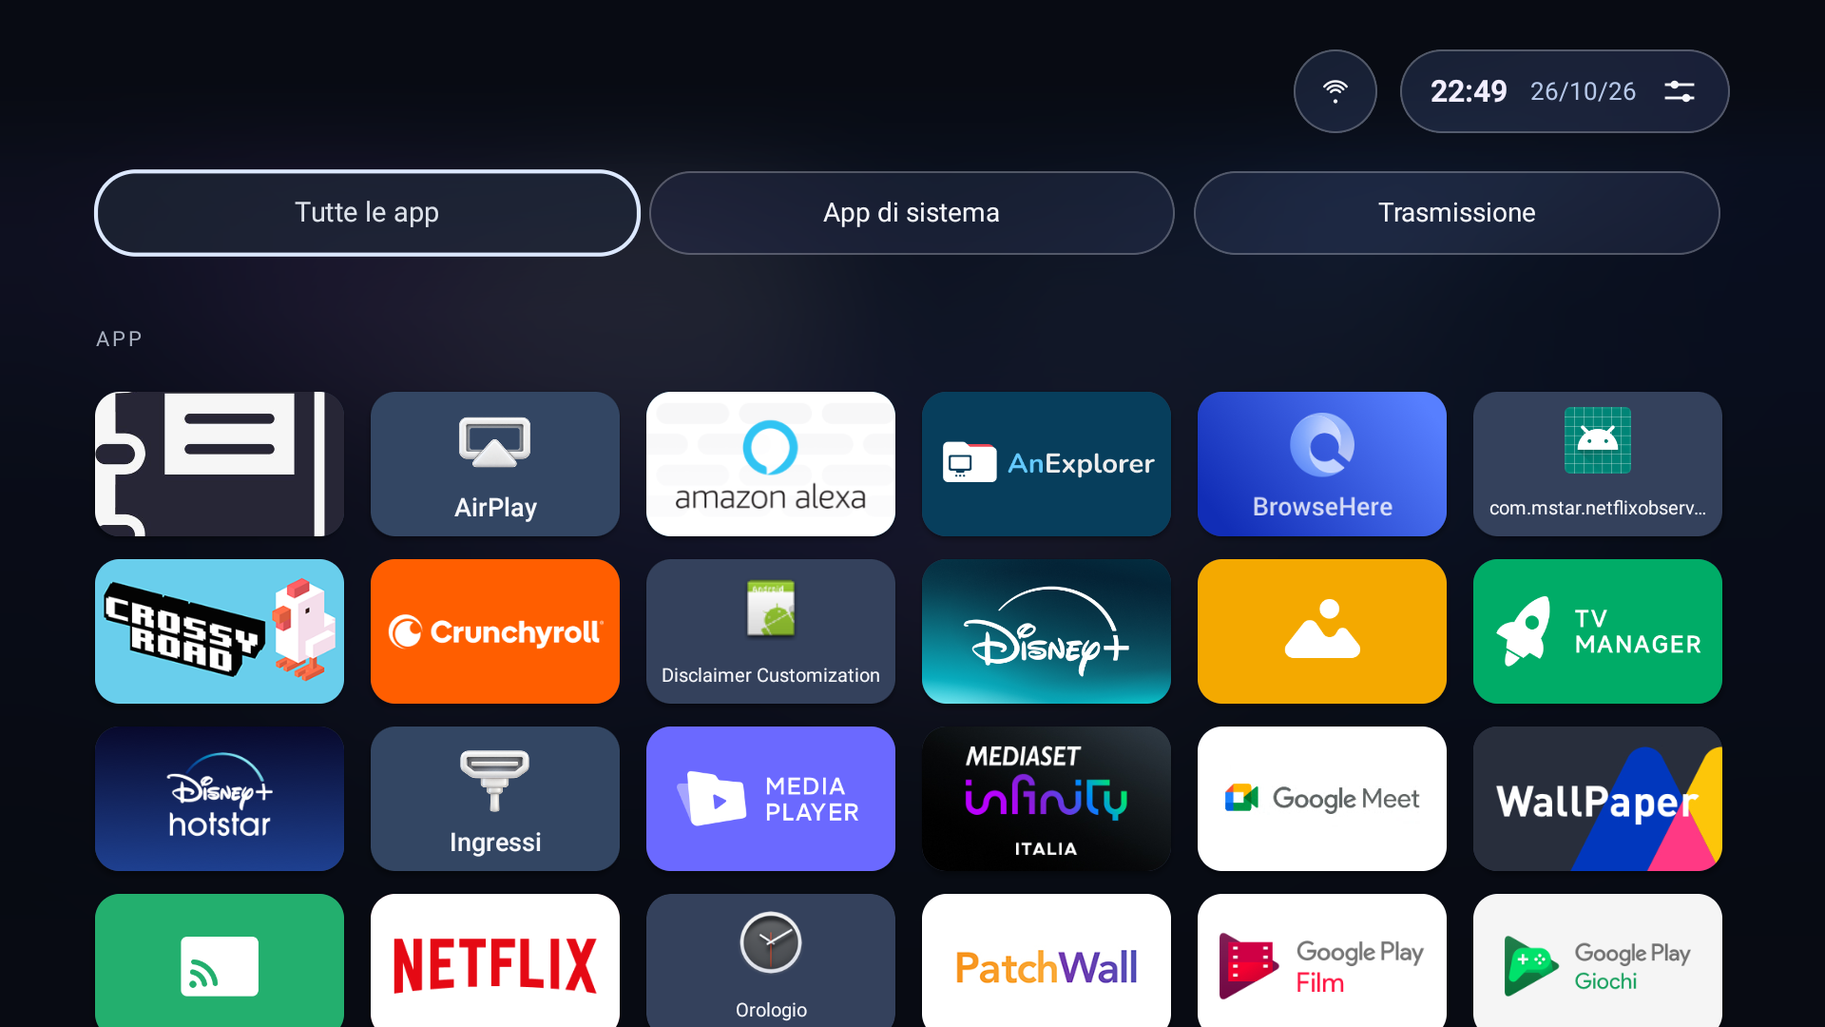
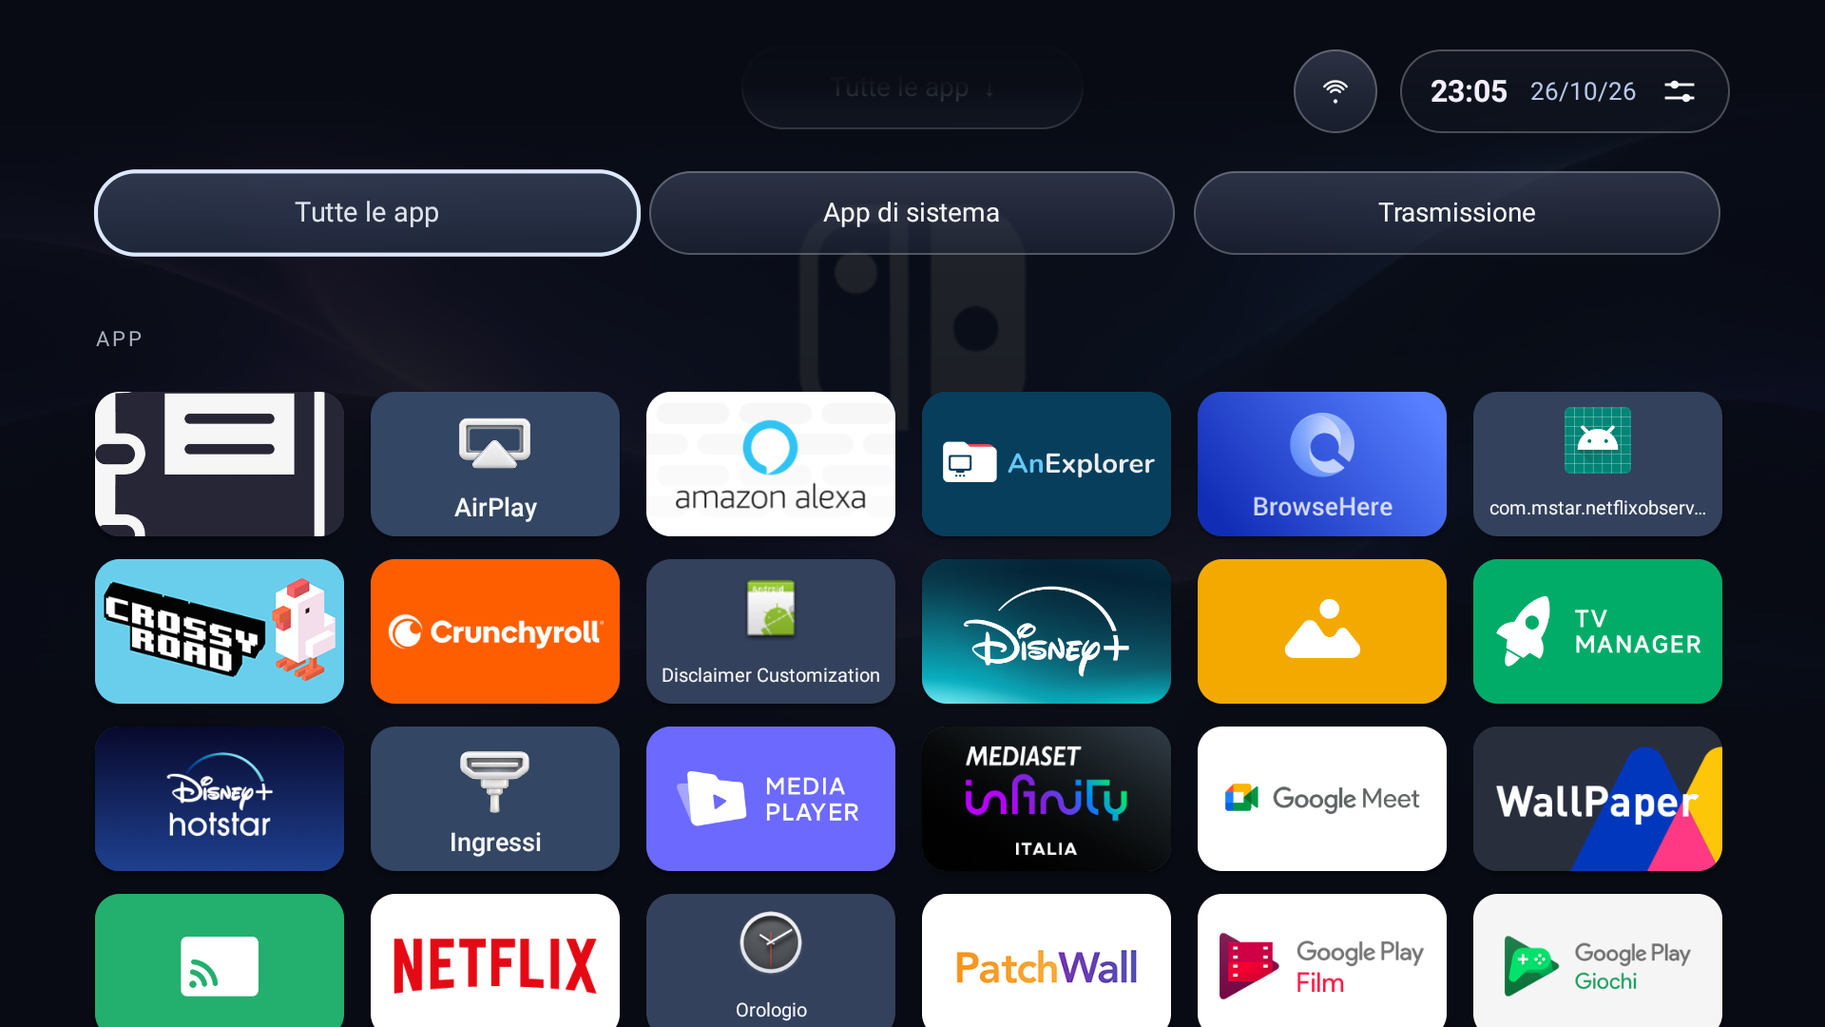
Use fresh popup blur, prevent text clipping and repair CI setup

diff --git a/app/src/main/java/it/xarber/tvhome/MainActivity.java b/app/src/main/java/it/xarber/tvhome/MainActivity.java
@@ -31,7 +31,7 @@ public final class MainActivity extends Activity {
     long suppressConfirmUntil;View panelOrigin,pendingPanelFocus;boolean homeFocusPending=true;Dialog panel; String dockFocus="inputs"; String page="home", lastFocus="inputs", filter="all"; boolean resumed,loaded,receiverRegistered;
     boolean libraryVisible; View libraryShade,libraryTopMask; Drawable selectedBackdrop; io.github.jqssun.airplay.service.AirPlayService nativeReceiver; boolean receiverBound;
     View audioBubble; PopupWindow audioPopup; AudioWaveform audioWave; TextView audioTitle,audioArtist,audioPlayButton; ImageView audioCover; SeekBar audioVolume; boolean audioExpanded;
-    View homeNotice; Runnable hideNotice; HomeRemoteServer remoteServer;
+    Bitmap popupBackdrop;View homeNotice; Runnable hideNotice; HomeRemoteServer remoteServer;
     final ServiceConnection receiverConnection=new ServiceConnection(){public void onServiceConnected(ComponentName n,IBinder b){nativeReceiver=((io.github.jqssun.airplay.service.AirPlayService.LocalBinder)b).getService();}public void onServiceDisconnected(ComponentName n){nativeReceiver=null;}};
     boolean preview; int tileWidth; View libraryAnchor,inputsAnchor,appsAnchor,inputsSection,appTabs,homeAppGrid; LinearLayout dockBand;  final HashMap<String,Bitmap> logoCache=new HashMap<>();final android.util.LruCache<String,Bitmap> sharpHeroes=new android.util.LruCache<>(3);final HashSet<String> sharpening=new HashSet<>(); Drawable hdmiArt,tvArt,appsArt,controlsArt;
     final Runnable tick=new Runnable(){public void run(){if(resumed){updateStatus();handler.postDelayed(this,15000);}}};
@@ -84,7 +84,7 @@ public final class MainActivity extends Activity {
         heroName=text("",36,WHITE);heroName.setGravity(Gravity.CENTER);heroName.setTypeface(Typeface.create("sans-serif-light",Typeface.NORMAL));FrameLayout.LayoutParams fallback=new FrameLayout.LayoutParams(-1,dp(130),Gravity.TOP);fallback.topMargin=dp(105);root.addView(heroName,fallback);
         scroll=new SnapScrollView();scroll.setFillViewport(true);scroll.setClipToPadding(false);scroll.setVerticalScrollBarEnabled(false);
         content=new LinearLayout(this);content.setOrientation(LinearLayout.VERTICAL);content.setPadding(dp(50),dp(28),dp(50),dp(30));content.setClipChildren(false);content.setClipToPadding(false);
-        scroll.setOnScrollChangeListener((v,x,y,oldx,oldy)->{scroll.settleGap();if(page.equals("home") && dockBand!=null)dockBand.setVisibility(scroll.libraryStop()>0 && y>=scroll.libraryStop()?View.INVISIBLE:View.VISIBLE);boolean show=page.equals("library") || y>dp(90);if(show!=libraryVisible){libraryVisible=show;updateBackdrop();}});
+        scroll.setOnScrollChangeListener((v,x,y,oldx,oldy)->{scroll.settleGap();if(page.equals("home") && dockBand!=null)dockBand.setVisibility(scroll.libraryStop()>0 && y>=scroll.libraryStop()?View.INVISIBLE:View.VISIBLE);if(page.equals("home")&&inputsSection!=null)inputsSection.setVisibility(y>=scroll.appsStop()?View.INVISIBLE:View.VISIBLE);boolean show=page.equals("library") || y>dp(90);if(show!=libraryVisible){libraryVisible=show;updateBackdrop();}});
         scroll.addView(content,new ScrollView.LayoutParams(-1,-2));root.addView(scroll);libraryTopMask=new View(this);libraryTopMask.setBackground(new GradientDrawable(GradientDrawable.Orientation.TOP_BOTTOM,new int[]{0xff080b13,0xf0080b13,0x00080b13}));libraryTopMask.setVisibility(View.GONE);root.addView(libraryTopMask,new FrameLayout.LayoutParams(-1,dp(88),Gravity.TOP));setContentView(root);
     }
     @Override public void onResume(){super.onResume();ensureReceiver();resumed=true;startHomeRemote();handler.removeCallbacks(tick);handler.post(tick);handler.removeCallbacks(audioTick);handler.post(audioTick);if(loaded)refreshSources();}
@@ -343,7 +343,7 @@ public final class MainActivity extends Activity {
         Intent i=pm.getLeanbackLaunchIntentForPackage("com.mediatek.wwtv.tvcenter");if(i==null)i=pm.getLaunchIntentForPackage("com.mediatek.wwtv.tvcenter");if(i!=null)start(i);else showNotice(tr(preview?"Preview: this emulator has no broadcast tuner":"Live TV is unavailable"),4500);
     }
     void showInputs(){LinearLayout rows=dialog("Inputs");for(int n=1;n<=3;n++){Entry e=sources.get(n);if(e==null){e=action("hdmi"+n,"HDMI "+n,"hdmi",hdmiArt);e.port=n;decorateInput(e);}final Entry target=e;addControl(rows,e.label,e.inputId.isEmpty()?"Not registered on this device":e.state==0?"Connected":"No signal",()->{closePanel();openInput(target);});}addControl(rows,"Live TV","Broadcast channels",()->{closePanel();openLive();});panel.show();focusFirst(rows);}
-    LinearLayout dialog(String title){if(panel!=null && panel.isShowing())panel.dismiss();else panelOrigin=getCurrentFocus();panel=new Dialog(this);panel.setOnKeyListener((dialog,key,event)->{if((key==KeyEvent.KEYCODE_DPAD_CENTER || key==KeyEvent.KEYCODE_ENTER) && event.getAction()==KeyEvent.ACTION_UP && SystemClock.uptimeMillis()<suppressConfirmUntil){suppressConfirmUntil=0;return true;}if(event.getAction()==KeyEvent.ACTION_DOWN && event.getRepeatCount()==0)suppressConfirmUntil=0;return key==KeyEvent.KEYCODE_BACK && handleBack(event);});LinearLayout rows=new LinearLayout(this);rows.setOrientation(LinearLayout.VERTICAL);rows.setClipChildren(false);rows.setClipToPadding(false);rows.setPadding(dp(26),dp(26),dp(26),dp(24));rows.setBackground(new FrostedDock(rows,true));rows.addView(text(title,27,WHITE),lp(-1,50));ScrollView dialogScroll=new ScrollView(this);dialogScroll.setClipChildren(false);dialogScroll.setClipToPadding(false);dialogScroll.addView(rows);panel.setContentView(dialogScroll);Window w=panel.getWindow();if(w!=null){w.setBackgroundDrawableResource(android.R.color.transparent);w.addFlags(WindowManager.LayoutParams.FLAG_DIM_BEHIND);WindowManager.LayoutParams p=w.getAttributes();p.width=dp(325);p.height=-2;p.gravity=Gravity.RIGHT|Gravity.CENTER_VERTICAL;p.x=dp(30);p.dimAmount=.38f;w.setAttributes(p);w.setWindowAnimations(getResources().getIdentifier("HomePanelMotion","style",getPackageName()));}return rows;}
+    LinearLayout dialog(String title){if(panel!=null && panel.isShowing())panel.dismiss();else panelOrigin=getCurrentFocus();capturePopupBackdrop();panel=new Dialog(this);panel.setOnDismissListener(dialog->{popupBackdrop=null;});panel.setOnKeyListener((dialog,key,event)->{if((key==KeyEvent.KEYCODE_DPAD_CENTER || key==KeyEvent.KEYCODE_ENTER) && event.getAction()==KeyEvent.ACTION_UP && SystemClock.uptimeMillis()<suppressConfirmUntil){suppressConfirmUntil=0;return true;}if(event.getAction()==KeyEvent.ACTION_DOWN && event.getRepeatCount()==0)suppressConfirmUntil=0;return key==KeyEvent.KEYCODE_BACK && handleBack(event);});LinearLayout rows=new LinearLayout(this);rows.setOrientation(LinearLayout.VERTICAL);rows.setClipChildren(false);rows.setClipToPadding(false);rows.setPadding(dp(26),dp(26),dp(26),dp(24));rows.setBackground(new FrostedDock(rows,true));TextView heading=text(title,27,WHITE);heading.setMinHeight(dp(50));heading.setPadding(0,0,0,dp(12));rows.addView(heading,lp(-1,-2));ScrollView dialogScroll=new ScrollView(this);dialogScroll.setClipChildren(false);dialogScroll.setClipToPadding(false);dialogScroll.addView(rows);panel.setContentView(dialogScroll);Window w=panel.getWindow();if(w!=null){w.setBackgroundDrawableResource(android.R.color.transparent);w.addFlags(WindowManager.LayoutParams.FLAG_DIM_BEHIND);WindowManager.LayoutParams p=w.getAttributes();p.width=dp(325);p.height=-2;p.gravity=Gravity.RIGHT|Gravity.CENTER_VERTICAL;p.x=dp(30);p.dimAmount=.38f;w.setAttributes(p);w.setWindowAnimations(getResources().getIdentifier("HomePanelMotion","style",getPackageName()));}return rows;}
     void addControl(LinearLayout rows,String label,String hint,Runnable action){TextView v=button(label+(hint.isEmpty()?"":"\n"+hint),action);v.setTextSize(14);v.setGravity(Gravity.CENTER_VERTICAL);v.setPadding(dp(16),dp(10),dp(10),dp(10));v.setLineSpacing(dp(2),1f);v.setMinHeight(dp(59));v.setBackground(new FrostedDock(v,true));View.OnFocusChangeListener feedback=v.getOnFocusChangeListener();v.setOnFocusChangeListener((view,focused)->{if(feedback!=null)feedback.onFocusChange(view,focused);v.setBackground(new FrostedDock(v,true));});LinearLayout.LayoutParams p=lp(-1,-2);p.topMargin=dp(8);rows.addView(v,p);}
     void focusFirst(LinearLayout rows){rows.post(()->{for(int i=1;i<rows.getChildCount();i++){View child=rows.getChildAt(i);if(child.isFocusable()){child.requestFocus();break;}}});}
     void closePanel(){pendingPanelFocus=panelOrigin;if(panel!=null)panel.dismiss();}
@@ -398,9 +398,9 @@ public final class MainActivity extends Activity {
     }
     boolean activeAudio(){return nativeReceiver!=null && nativeReceiver.getConnectionCount().getValue()>0 && nativeReceiver.getAudioOnly().getValue() && !nativeReceiver.getMirroringActive().getValue() && !nativeReceiver.getVideoPlaybackActive().getValue();}
     void updateAudioActivity(){if(audioBubble==null)return;boolean show=page.equals("home") && (panel==null||!panel.isShowing()) && activeAudio();audioBubble.setVisibility(show?View.VISIBLE:View.GONE);if(!show){if(audioPopup!=null&&audioPopup.isShowing())audioPopup.dismiss();audioExpanded=false;return;}io.github.jqssun.airplay.audio.TrackInfo info=nativeReceiver.getTrackInfo().getValue();String title=info.getTitle().isEmpty()?tr("AirPlay audio"):info.getTitle();audioBubble.setContentDescription(title+" — "+tr("AirPlay audio controls"));audioWave.setLevels(nativeReceiver.audioWaveform());if(audioTitle!=null){audioTitle.setText(title);audioArtist.setText(info.getArtist().isEmpty()?info.getAlbum():info.getArtist());if(audioCover!=null){if(info.getCoverArt()!=null)audioCover.setImageBitmap(info.getCoverArt());else audioCover.setImageDrawable(asset("icon_airplay"));}if(audioPlayButton!=null)audioPlayButton.setText(nativeReceiver.getPlaying().getValue()?"Ⅱ":"▶");}if(audioVolume!=null&&!audioVolume.isPressed())audioVolume.setProgress(Math.round(nativeReceiver.clientVolume()*100));}
-    void showAudioControls(){if(!activeAudio()||audioBubble==null)return;if(audioPopup!=null&&audioPopup.isShowing()){audioPopup.dismiss();audioExpanded=false;return;}LinearLayout card=new LinearLayout(this);card.setOrientation(LinearLayout.VERTICAL);card.setPadding(dp(18),dp(14),dp(18),dp(12));card.setBackground(new FrostedDock(card,true));card.setElevation(dp(15));card.setFocusable(false);
+    void showAudioControls(){if(!activeAudio()||audioBubble==null)return;if(audioPopup!=null&&audioPopup.isShowing()){audioPopup.dismiss();audioExpanded=false;return;}capturePopupBackdrop();LinearLayout card=new LinearLayout(this);card.setOrientation(LinearLayout.VERTICAL);card.setPadding(dp(18),dp(14),dp(18),dp(12));card.setBackground(new FrostedDock(card,true));card.setElevation(dp(15));card.setFocusable(false);
         LinearLayout line=new LinearLayout(this);line.setGravity(Gravity.CENTER_VERTICAL);audioCover=new ImageView(this);io.github.jqssun.airplay.audio.TrackInfo info=nativeReceiver.getTrackInfo().getValue();if(info.getCoverArt()!=null)audioCover.setImageBitmap(info.getCoverArt());else audioCover.setImageDrawable(asset("icon_airplay"));audioCover.setScaleType(ImageView.ScaleType.CENTER_CROP);audioCover.setBackground(surface(0xff30384a,12));line.addView(audioCover,lp(62,62));LinearLayout labels=new LinearLayout(this);labels.setOrientation(LinearLayout.VERTICAL);labels.setGravity(Gravity.CENTER_VERTICAL);labels.setPadding(dp(14),0,dp(8),0);audioTitle=text(info.getTitle().isEmpty()?"AirPlay audio":info.getTitle(),17,WHITE);audioTitle.setSingleLine(true);audioTitle.setEllipsize(android.text.TextUtils.TruncateAt.END);audioArtist=text(info.getArtist().isEmpty()?info.getAlbum():info.getArtist(),13,MUTED);audioArtist.setSingleLine(true);audioArtist.setEllipsize(android.text.TextUtils.TruncateAt.END);labels.addView(audioTitle,lp(-1,26));labels.addView(audioArtist,lp(-1,22));line.addView(labels,new LinearLayout.LayoutParams(0,dp(62),1));TextView prev=audioButton("‹",()->{if(nativeReceiver!=null&&nativeReceiver.getDacpController()!=null)nativeReceiver.getDacpController().prevItem();});audioPlayButton=audioButton(nativeReceiver.getPlaying().getValue()?"Ⅱ":"▶",()->{if(nativeReceiver!=null)nativeReceiver.toggleMediaPlayback();});TextView next=audioButton("›",()->{if(nativeReceiver!=null&&nativeReceiver.getDacpController()!=null)nativeReceiver.getDacpController().nextItem();});line.addView(prev,lp(42,46));line.addView(audioPlayButton,lp(48,46));line.addView(next,lp(42,46));card.addView(line,lp(-1,64));LinearLayout vol=new LinearLayout(this);vol.setGravity(Gravity.CENTER_VERTICAL);TextView glyph=text("−",18,WHITE);vol.addView(glyph,lp(24,30));audioVolume=new SeekBar(this);audioVolume.setMax(100);audioVolume.setProgress(Math.round(nativeReceiver.clientVolume()*100));audioVolume.setOnSeekBarChangeListener(new SeekBar.OnSeekBarChangeListener(){public void onStartTrackingTouch(SeekBar s){}public void onStopTrackingTouch(SeekBar s){}public void onProgressChanged(SeekBar s,int p,boolean from){if(from&&nativeReceiver!=null)nativeReceiver.setClientVolume(p/100f);}});vol.addView(audioVolume,new LinearLayout.LayoutParams(0,dp(34),1));TextView plus=text("+",18,WHITE);vol.addView(plus,lp(24,30));card.addView(vol,lp(-1,38));
-        audioPopup=new PopupWindow(card,dp(410),dp(128),true);audioPopup.setBackgroundDrawable(surface(0x001a2030,22));audioPopup.setOutsideTouchable(true);audioPopup.setOnDismissListener(()->{audioExpanded=false;if(audioBubble!=null&&audioBubble.isShown())audioBubble.requestFocus();});int[] loc=new int[2];audioBubble.getLocationOnScreen(loc);int right=root.getWidth()-loc[0]-audioBubble.getWidth();audioPopup.showAtLocation(root,Gravity.TOP|Gravity.RIGHT,right,loc[1]-dp(2));audioExpanded=true;card.setAlpha(.92f);card.setScaleX(.97f);card.setScaleY(.97f);if(motionEnabled())card.animate().alpha(1f).scaleX(1f).scaleY(1f).setDuration(180).setInterpolator(easeOut()).start();else{card.setAlpha(1f);card.setScaleX(1f);card.setScaleY(1f);}card.setFocusableInTouchMode(true);card.requestFocus();}
+        audioPopup=new PopupWindow(card,dp(410),dp(128),true);audioPopup.setBackgroundDrawable(surface(0x001a2030,22));audioPopup.setOutsideTouchable(true);audioPopup.setOnDismissListener(()->{popupBackdrop=null;audioExpanded=false;if(audioBubble!=null&&audioBubble.isShown())audioBubble.requestFocus();});int[] loc=new int[2];audioBubble.getLocationOnScreen(loc);int right=root.getWidth()-loc[0]-audioBubble.getWidth();audioPopup.showAtLocation(root,Gravity.TOP|Gravity.RIGHT,right,loc[1]-dp(2));audioExpanded=true;card.setAlpha(.92f);card.setScaleX(.97f);card.setScaleY(.97f);if(motionEnabled())card.animate().alpha(1f).scaleX(1f).scaleY(1f).setDuration(180).setInterpolator(easeOut()).start();else{card.setAlpha(1f);card.setScaleX(1f);card.setScaleY(1f);}card.setFocusableInTouchMode(true);card.requestFocus();}
     TextView audioButton(String label,Runnable action){TextView b=text(label,20,WHITE);b.setGravity(Gravity.CENTER);b.setFocusable(true);b.setClickable(true);b.setBackground(surface(0x332d3548,18));b.setOnClickListener(v->action.run());return b;}
     void startHomeRemote(){if(remoteServer!=null)return;try{remoteServer=new HomeRemoteServer(this,cmd->runOnUiThread(()->{if(cmd.equals("pair-request"))showRemoteCode();else remoteCommand(cmd);}));remoteServer.start();}catch(Exception e){remoteServer=null;showNotice(tr("Phone remote unavailable on this network"),5000);android.util.Log.w("MiTVRemote","HTTP remote could not start",e);}}
     void stopHomeRemote(){if(remoteServer!=null){remoteServer.stop();remoteServer=null;}if(hideNotice!=null){handler.removeCallbacks(hideNotice);hideNotice=null;}if(homeNotice!=null){root.removeView(homeNotice);homeNotice=null;}}
@@ -415,7 +415,12 @@ public final class MainActivity extends Activity {
     void showAirPlayInfo(){ensureReceiver();LinearLayout rows=dialog("AirPlay");boolean ready=nativeReceiver!=null && nativeReceiver.getServerState().getValue()==io.github.jqssun.airplay.service.AirPlayService.ServerState.RUNNING;TextView status=text(ready?"Ready to receive":"Starting receiver…",19,WHITE);rows.addView(status,lp(-1,45));TextView instructions=text(String.format(Locale.getDefault(),tr("Choose %s in Screen Mirroring or AirPlay.\n\nThe receiver starts with Home and remains available in the background."),DeviceName.read(this)),14,MUTED);instructions.setLineSpacing(dp(3),1);rows.addView(instructions,lp(-1,140));addControl(rows,"Done","",this::closePanel);panel.show();focusFirst(rows);}
     void updateBackdrop(){if(libraryVisible)stopBannerMotion();if(heroImage==null)return;heroImage.setAlpha(1f);heroImage.setImageDrawable(copy(selectedBackdrop));if(libraryShade!=null)libraryShade.setVisibility(libraryVisible?View.VISIBLE:View.GONE);if(libraryTopMask!=null)libraryTopMask.setVisibility(libraryVisible?View.VISIBLE:View.GONE);if(systemFloatingIcon!=null)systemFloatingIcon.setVisibility(systemBackdrop && !libraryVisible?View.VISIBLE:View.GONE);if(libraryVisible && heroName!=null)heroName.setVisibility(View.GONE);}
     void updateGlass(Drawable art){if(dockBand!=null)dockBand.invalidate();if(root!=null)root.invalidate();}
-    final class FrostedDock extends Drawable {final View owner;final boolean popup;final Paint p=new Paint(3);final RectF rect=new RectF();FrostedDock(View v){this(v,false);}FrostedDock(View v,boolean popup){owner=v;this.popup=popup;}public void setAlpha(int a){}public void setColorFilter(ColorFilter f){}public int getOpacity(){return PixelFormat.TRANSLUCENT;}public void draw(Canvas c){rect.set(getBounds());p.setShader(new LinearGradient(0,rect.top,0,rect.bottom,popup?new int[]{0xf02e3445,0xf01b2130}:new int[]{0x99444b64,0x99202739},null,Shader.TileMode.CLAMP));c.drawRoundRect(rect,dp(22),dp(22),p);p.setShader(null);p.setColor(0x40ffffff);p.setStyle(Paint.Style.STROKE);p.setStrokeWidth(dp(1));rect.inset(dp(.5f),dp(.5f));c.drawRoundRect(rect,dp(22),dp(22),p);p.setStyle(Paint.Style.FILL);}}
+    void capturePopupBackdrop(){
+        if(root.getWidth()==0||root.getHeight()==0)return;int w=Math.max(1,root.getWidth()/8),h=Math.max(1,root.getHeight()/8);Bitmap fresh=Bitmap.createBitmap(w,h,Bitmap.Config.ARGB_8888);Canvas scene=new Canvas(fresh);scene.scale(w/(float)root.getWidth(),h/(float)root.getHeight());root.draw(scene);int[] data=new int[w*h];fresh.getPixels(data,0,w,0,0,w,h);
+        for(int pass=0;pass<5;pass++){int[] next=new int[data.length];for(int y=0;y<h;y++)for(int x=0;x<w;x++){int r=0,g=0,b=0,n=0;for(int dy=-2;dy<=2;dy++)for(int dx=-2;dx<=2;dx++){int color=data[Math.max(0,Math.min(h-1,y+dy))*w+Math.max(0,Math.min(w-1,x+dx))];r+=Color.red(color);g+=Color.green(color);b+=Color.blue(color);n++;}next[y*w+x]=Color.rgb(r/n,g/n,b/n);}data=next;}
+        fresh.setPixels(data,0,w,0,0,w,h);popupBackdrop=fresh;
+    }
+    final class FrostedDock extends Drawable {final View owner;final boolean popup;final Paint p=new Paint(3);final RectF rect=new RectF();final int[] position=new int[2],origin=new int[2];FrostedDock(View v){this(v,false);}FrostedDock(View v,boolean popup){owner=v;this.popup=popup;}public void setAlpha(int a){}public void setColorFilter(ColorFilter f){}public int getOpacity(){return PixelFormat.TRANSLUCENT;}public void draw(Canvas c){rect.set(getBounds());p.setColor(Color.WHITE);p.setStyle(Paint.Style.FILL);if(popup&&popupBackdrop!=null){c.save();Path clip=new Path();clip.addRoundRect(rect,dp(22),dp(22),Path.Direction.CW);c.clipPath(clip);owner.getLocationOnScreen(position);root.getLocationOnScreen(origin);float x=position[0]-origin[0],y=position[1]-origin[1];c.drawBitmap(popupBackdrop,null,new RectF(-x,-y,root.getWidth()-x,root.getHeight()-y),p);c.restore();}p.setShader(new LinearGradient(0,rect.top,0,rect.bottom,popup?new int[]{0xb0353b4c,0xc01b2130}:new int[]{0x99444b64,0x99202739},null,Shader.TileMode.CLAMP));c.drawRoundRect(rect,dp(22),dp(22),p);p.setShader(null);p.setColor(0x40ffffff);p.setStyle(Paint.Style.STROKE);p.setStrokeWidth(dp(1));rect.inset(dp(.5f),dp(.5f));c.drawRoundRect(rect,dp(22),dp(22),p);p.setStyle(Paint.Style.FILL);}}
 
     final class Scrim extends View {Paint p=new Paint(3);Scrim(){super(MainActivity.this);}@Override protected void onSizeChanged(int w,int h,int ow,int oh){p.setShader(new LinearGradient(0,0,0,h,new int[]{0xb0040910,0x08040910,0x50040910,0xee080b13},new float[]{0f,.23f,.52f,1f},Shader.TileMode.CLAMP));}@Override protected void onDraw(Canvas c){c.drawRect(0,0,getWidth(),getHeight(),p);}}
     final class AudioWaveform extends View {final Paint p=new Paint(3);float[] levels=new float[32];AudioWaveform(){super(MainActivity.this);}void setLevels(float[] next){if(next!=null&&next.length>0){int n=Math.min(levels.length,next.length);int offset=levels.length-n;for(int i=0;i<offset;i++)levels[i]=0;System.arraycopy(next,0,levels,offset,n);invalidate();}}@Override protected void onDraw(Canvas c){super.onDraw(c);float slot=getWidth()/(float)levels.length;p.setColor(0xff9fc4ff);p.setStrokeWidth(Math.max(dp(1),slot*.58f));p.setStrokeCap(Paint.Cap.ROUND);for(int i=0;i<levels.length;i++){float amp=Math.min(1f,levels[i]*5.5f);float h=dp(3)+amp*Math.max(dp(3),getHeight()*.43f);float x=(i+.5f)*slot;c.drawLine(x,getHeight()/2f-h,x,getHeight()/2f+h,p);}}}

diff --git a/README.md b/README.md
@@ -16,7 +16,7 @@ A remote-first Android TV launcher with a six-item dock, fullscreen artwork, fas
 
 - **Six customizable positions.** Apps, individual HDMI inputs, Live TV, and Sources can move around. All Apps is available in position six.
 - **Three landing points.** Dock → Inputs & Live TV → apps with All Apps, System Apps, and Casting categories. Longer grids scroll normally; dock edges keep horizontal focus inside the dock.
-- **Fullscreen banners.** App artwork takes priority; source banners use centered device logos. Translucent surfaces and strong library shading keep controls readable. Artwork-derived blur is disabled to prevent stale background effects.
+- **Fullscreen banners.** App artwork takes priority; source banners use centered device logos. Translucent surfaces and strong library shading keep controls readable. Popups capture and blur the current screen when opened; their backdrop is discarded on dismissal.
 - **Remote ergonomics.** Hold OK on an item for its menu. Hold Back for Control Center. A downward All Apps hint leads from Inputs to the app grid.
 - **Compact status.** Time, date, and an expanding, single-line network bubble.
 - **Integrated AirPlay.** The receiver starts with Home and can remain active in the background. Audio uses a compact activity bubble with a PCM-derived waveform and playback/volume controls; supported video and screen mirroring open fullscreen.
